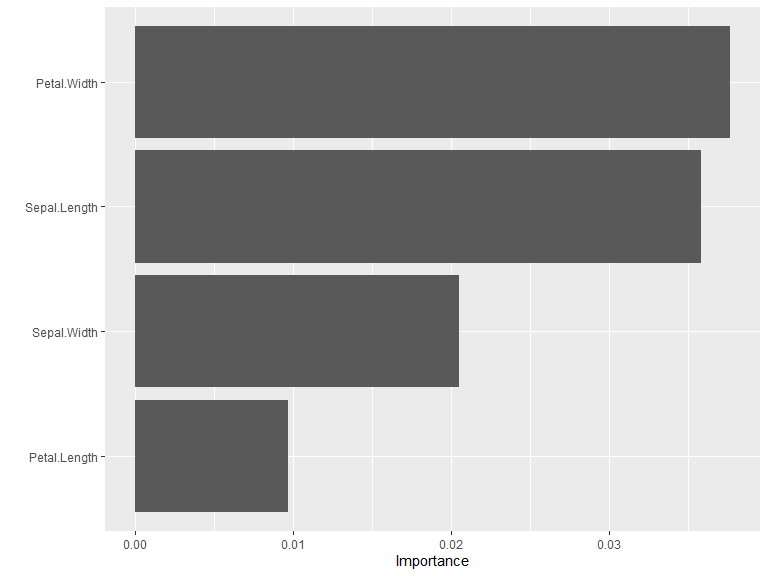
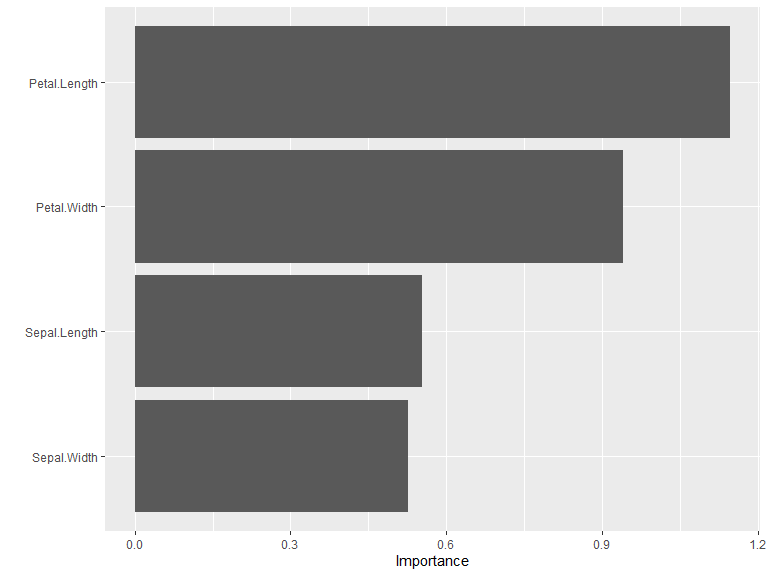
Update `README`, enabling `downloads/month`

diff --git a/README.md b/README.md
@@ -8,7 +8,8 @@
 [![CRAN
 status](https://www.r-pkg.org/badges/version/kindling)](https://CRAN.R-project.org/package=kindling)
 [![R-CMD-check](https://github.com/joshuamarie/kindling/actions/workflows/R-CMD-check.yaml/badge.svg)](https://github.com/joshuamarie/kindling/actions/workflows/R-CMD-check.yaml)
-<!-- [![CRAN Downloads](https://cranlogs.r-pkg.org/badges/kindling)](https://CRAN.R-project.org/package=kindling) -->
+[![CRAN
+Downloads](https://cranlogs.r-pkg.org/badges/kindling)](https://CRAN.R-project.org/package=kindling)
 <!-- [![CRAN Downloads Total](https://cranlogs.r-pkg.org/badges/grand-total/kindling?color=brightgreen)](https://CRAN.R-project.org/package=kindling) -->
 [![Codecov test
 coverage](https://codecov.io/gh/joshuamarie/kindling/graph/badge.svg)](https://app.codecov.io/gh/joshuamarie/kindling)
@@ -72,11 +73,16 @@ pak::pak("joshuamarie/kindling")
 
 ## Learn more
 
-- [Getting Started with kindling](https://kindling.joshuamarie.com/articles/kindling.html)
-- [Tuning Capabilities](https://kindling.joshuamarie.com/articles/tuning-capabilities.html)
-- [Custom Activation Function](https://kindling.joshuamarie.com/articles/custom-act-fn.html)
-- [Special Cases: Linear and Logistic Regression](https://kindling.joshuamarie.com/articles/special-cases.html)
-- [Similar Packages and Comparison](https://kindling.joshuamarie.com/articles/similar-packages.html)
+- [Getting Started with
+  kindling](https://kindling.joshuamarie.com/articles/kindling.html)
+- [Tuning
+  Capabilities](https://kindling.joshuamarie.com/articles/tuning-capabilities.html)
+- [Custom Activation
+  Function](https://kindling.joshuamarie.com/articles/custom-act-fn.html)
+- [Special Cases: Linear and Logistic
+  Regression](https://kindling.joshuamarie.com/articles/special-cases.html)
+- [Similar Packages and
+  Comparison](https://kindling.joshuamarie.com/articles/similar-packages.html)
 
 ## Usage: Three Levels of Interaction
 
@@ -90,8 +96,8 @@ abstraction level suits your task.
 library(kindling)
 ```
 
-Before starting, install LibTorch, the backend of PyTorch and the
-`{torch}` R package:
+Before starting, install LibTorch (the backend used by the `{torch}` R
+package):
 
 ``` r
 torch::install_torch()
@@ -157,7 +163,6 @@ model = ffnn(
 model
 ```
 
-
     ======================= Feedforward Neural Networks (MLP) ======================
 
 
@@ -167,7 +172,7 @@ model
           NN Model Type           :             FFNN    n_predictors :      4
           Number of Epochs        :              100    n_response   :      3
           Hidden Layer Units      :        10, 15, 7    reg.         :   None
-          Number of Hidden Layers :                3    Device       :    mps
+          Number of Hidden Layers :                3    Device       :    cpu
           Pred. Type              :   classification                 :       
         -----------------------------------------------------------------------
 
@@ -202,8 +207,8 @@ Two kinds of `predict()` usage:
     #>             predicted
     #> actual       setosa versicolor virginica
     #>   setosa         50          0         0
-    #>   versicolor      0         46         4
-    #>   virginica       0          1        49
+    #>   versicolor      0         48         2
+    #>   virginica       0          0        50
     ```
 
 2.  **With `newdata`** simply pass the new data frame as the new
@@ -217,8 +222,8 @@ Two kinds of `predict()` usage:
     #>             predicted
     #> actual       setosa versicolor virginica
     #>   setosa         10          0         0
-    #>   versicolor      0         10         0
-    #>   virginica       0          1         9
+    #>   versicolor      0          9         1
+    #>   virginica       0          0        10
     ```
 
 ### Level 3: Conventional tidymodels Integration
@@ -376,10 +381,10 @@ networks. Two primary algorithms are available:
     ``` r
     garson(model, bar_plot = FALSE)
     #>        x_names y_names  rel_imp
-    #> 1  Sepal.Width       y 28.80667
-    #> 2  Petal.Width       y 25.33185
-    #> 3 Sepal.Length       y 23.10922
-    #> 4 Petal.Length       y 22.75226
+    #> 1 Petal.Length       y 30.29959
+    #> 2 Sepal.Length       y 25.50089
+    #> 3  Petal.Width       y 24.56154
+    #> 4  Sepal.Width       y 19.63798
     ```
 
 2.  Olden’s Algorithm
@@ -387,10 +392,10 @@ networks. Two primary algorithms are available:
     ``` r
     olden(model, bar_plot = FALSE)
     #>        x_names y_names    rel_imp
-    #> 1  Sepal.Width       y  0.5660366
-    #> 2  Petal.Width       y -0.5193552
-    #> 3 Petal.Length       y -0.4961819
-    #> 4 Sepal.Length       y -0.1262867
+    #> 1 Petal.Length       y -1.1477059
+    #> 2  Petal.Width       y -0.9410617
+    #> 3 Sepal.Length       y  0.5526031
+    #> 4  Sepal.Width       y  0.5260558
     ```
 
 ### Integration with {vip}